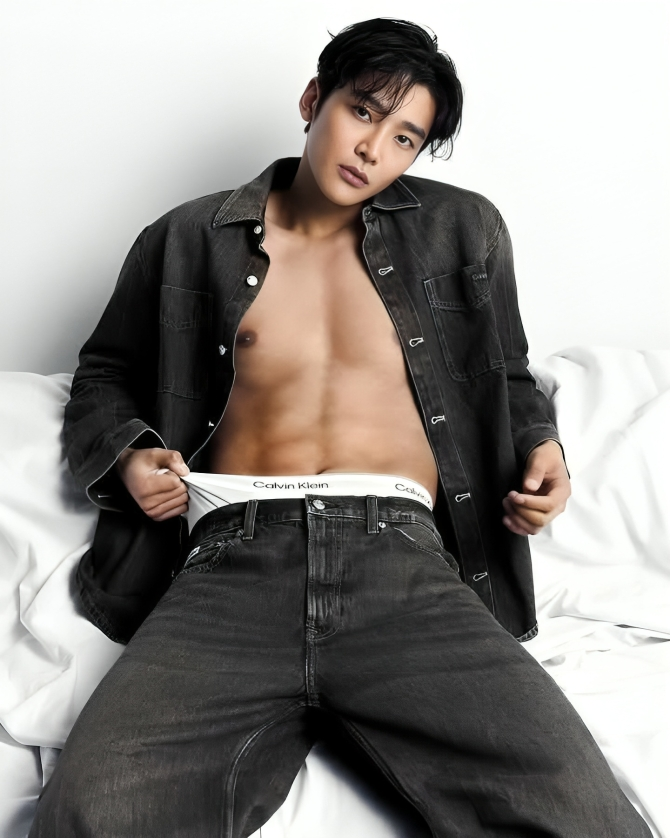
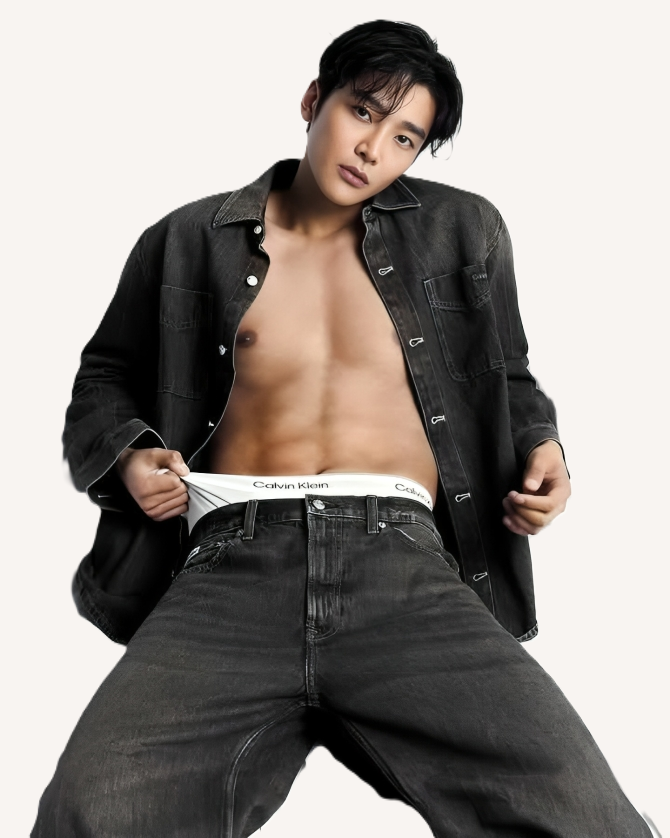
front website done  ✅
ab link jodne hai or dusre page banane hai jese ki product page and all

diff --git a/style.css b/style.css
@@ -106,12 +106,12 @@ nav{
 }
 
 #womens_outer_container, #mens_outer_container {
-    height: 45vh;
+    height: auto;
     width: 100%;
     margin-top: 20vh;
     display: flex;
     justify-content: left;
-    align-items: center;
+    align-items: top;
 }
 
 .womens_inner_container, .mens_inner_container {
@@ -270,7 +270,7 @@ nav{
 }
 
 /* ADDITIONAL SECTIONS WITH STICKY */
-#about{
+#womens_section{
     background-color: #e8e8e8;
     display: flex;
     align-items: center;
@@ -279,14 +279,14 @@ nav{
     top: 0;
 }
 
-#about img{
+#womens_section img{
     height: 100vh;
     width: 100%;
     border-radius: 10px;    
 }
 
-#contact{
-    background-color: #e7e8e4;
+#mens_section{
+    background-color: #F8F4F1;
     display: flex;
     align-items: center;
     justify-content: center;
@@ -294,7 +294,7 @@ nav{
     top: 0;
 }
 
-#contact img{
+#mens_section img{
     height: 100vh;
     width: 100%;
     border-radius: 10px;    
@@ -431,8 +431,8 @@ body {
 /* VELVET BUTTON ENHANCEMENT */
 #velvet_btn {
     position: absolute;
-    top: 87%;
-    left: 49%;
+    top: 92%;
+    left: 47%;
     font-family: 'satoshi', sans-serif;
     font-size: 12px;
     color: white;
@@ -560,28 +560,51 @@ body {
 }
 
 #footer_outerdiv{
-    height: 30vh;
+    height: 20vh;
     width: 60vw;
     position: absolute;
     top: 15%;
     left: 20%;
     display: flex;
     justify-content: center;
+    margin-top: 6vh;
 }
 .innerdivs{
     height: 100%;
     width: 45%;
     display: flex;
     justify-content: center;
-    align-items: center;
+    align-items: top;
     font-family: 'satoshi', sans-serif;
+    text-transform: uppercase;
+    font-size: 12.8px;
+    line-height: 15px;
+    font-weight: 500;
+}
+
+.innerdivs ul{
+    list-style: none;
+    gap: 0.6vh;
+    display: flex;
+    flex-direction: column;
+    align-items: left;
+}
+
+.innerdivs ul li:hover{
+    color: #313131;
+    cursor: pointer;
 }
 
 #social_media_icons{
     position: absolute;
-    top: 50%;
+    top: 40%;
     left: 50%;
     transform: translate(-50%, -50%);
     display: flex;
     gap: 50px;
+    font-size: 19px;
+}
+
+#social_media_icons i{
+    cursor: pointer;
 }

diff --git a/index.html b/index.html
@@ -170,15 +170,23 @@
         </section>
 
         <!-- ADD MORE SECTIONS HERE IF NEEDED -->
-        <section id="about" class="snap-section">
+        <section id="womens_section" class="snap-section">
             <div style="display: flex; align-items: center; justify-content: center; height: 100%; font-family: 'satoshi', sans-serif; font-size: 3rem; color: #313131;">
                 <img src="media/image/women_section_frontImage5.png" width="100%" alt="">
+                <div id="velvet_btn">
+                    <p class="bold">WOMENS CLOTHING</p>
+                    <p>DISCOVER</p>
+                </div>
             </div>
         </section>
 
-        <section id="contact" class="snap-section">
+        <section id="mens_section" class="snap-section">
             <div style="display: flex; align-items: center; justify-content: center; height: 100%; font-family: 'satoshi', sans-serif; font-size: 3rem; color: #313131;">
-                <img src="media/image/men_section_frontimage.png" alt="">
+                <img src="media/image/men_section_frontimag2.png" width="100%" alt="">
+                <div id="velvet_btn">
+                <p class="bold">MENS CLOTHING</p>
+                <p>DISCOVER</p>
+            </div> 
             </div>
         </section>
 
@@ -208,7 +216,7 @@
                     </ul>
                 </div>
                 <div class="innerdivs" id="footer_innerdiv4">
-                    <ul><li>Newsletter</li></ul>
+                    <ul><li>subscribe to Newsletter &nbsp;-></li></ul>
                 </div>
 
             </div>
@@ -217,6 +225,10 @@
                 <i class="ri-instagram-fill"></i>
                 <i class="ri-pinterest-fill"></i>
                 <i class="ri-youtube-fill"></i>
+                <i class="ri-twitter-fill"></i>
+                <i class="ri-tiktok-fill"></i>
+                
+            </div>
         </section>
         
     </div>

diff --git a/script.js b/script.js
@@ -10,7 +10,7 @@ document.querySelectorAll(".menu-item").forEach(item => {
     item.addEventListener("mouseenter", () => {
         clearTimeout(hideTimeout);
         targetBox.style.marginTop = "0";
-        targetBox.style.transition = "margin-top 1200ms cubic-bezier(0.25, 0.46, 0.45, 0.94)";
+        targetBox.style.transition = "margin-top 1000ms cubic-bezier(0.25, 0.46, 0.45, 0.94)";
     });
 
     item.addEventListener("mouseleave", () => {
